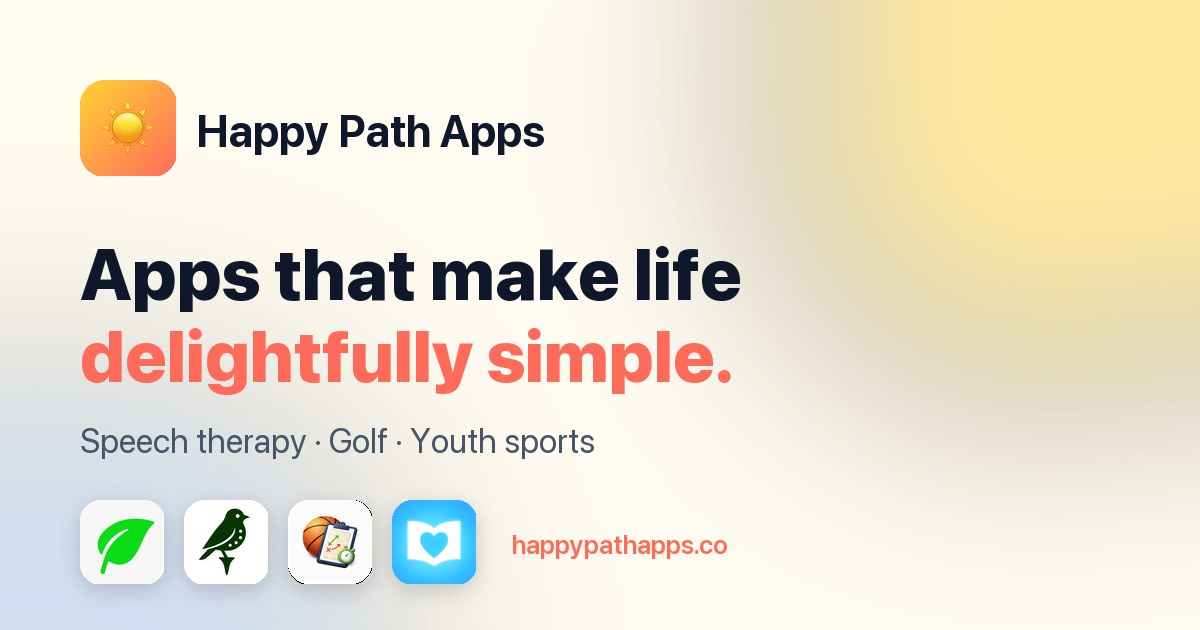
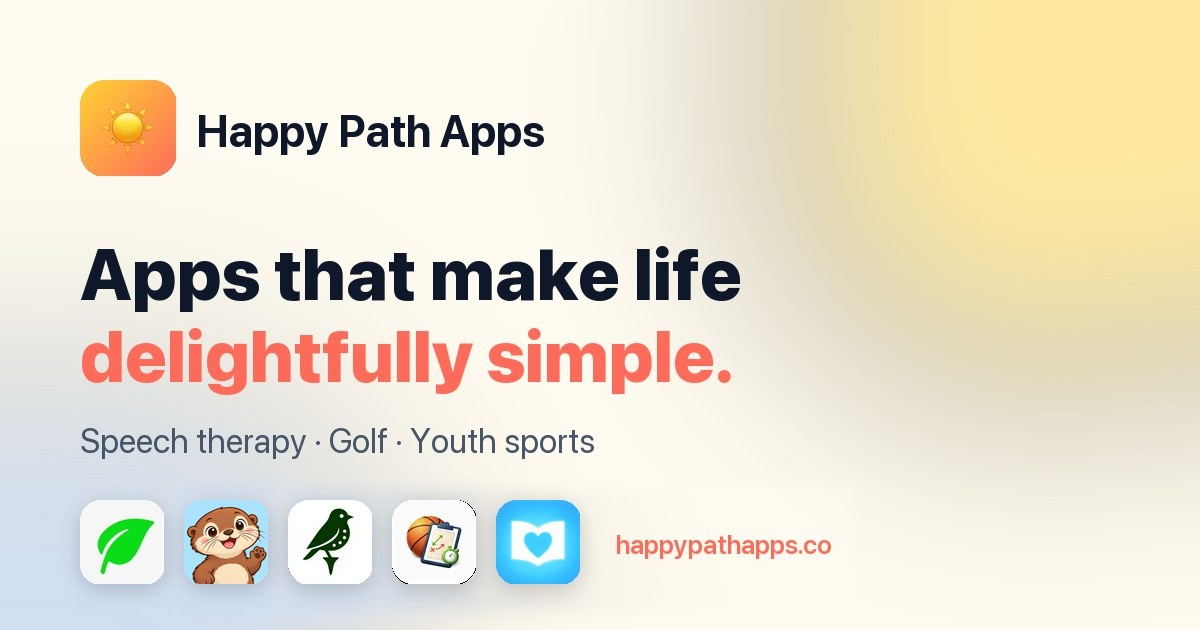
tunes Omilía Kids SEO and cross-links it from Omilía
Shortens the Kids page title and meta description to fit search
results, works "speech therapy practice", vocabulary and toddler /
preschooler phrasing into the copy and FAQ, adds a Meet Omilía Kids
card to the Omilía page, and adds the Kids icon to the home page's
share image.

Changed region(s): [[0.1542, 0.7841, 0.7092, 0.9651]]

diff --git a/omilia-kids/index.html b/omilia-kids/index.html
@@ -3,27 +3,27 @@
 <head>
 <meta charset="UTF-8">
 <meta name="viewport" content="width=device-width, initial-scale=1.0">
-<title>Omilía Kids - Speech &amp; Language Games for Kids 3+ | Happy Path Apps</title>
-<meta name="description" content="Omilía Kids turns speech and language practice into short, cheerful games for children ages 3 and up. Meet Omi the otter, collect stickers, and play with no ads, timers or pressure.">
+<title>Omilía Kids: Speech Games for Kids 3+ | Happy Path Apps</title>
+<meta name="description" content="Fun speech and language games for kids 3 and up. Practice talking, listening and new words with Omi the otter. No ads, no timers, no pressure.">
 <link rel="canonical" href="https://happypathapps.co/omilia-kids/">
 <meta property="og:type" content="website">
 <meta property="og:site_name" content="Happy Path Apps">
-<meta property="og:title" content="Omilía Kids - Speech &amp; Language Games for Kids 3+">
+<meta property="og:title" content="Omilía Kids: Speech Games for Kids 3+">
 <meta property="og:description" content="Short, cheerful speech and language games for ages 3 and up. Meet Omi the otter, collect stickers, and play with no ads, timers or pressure.">
 <meta property="og:url" content="https://happypathapps.co/omilia-kids/">
 <meta property="og:image" content="https://happypathapps.co/omilia-kids/images/og.jpg">
 <meta property="og:image:width" content="1200">
 <meta property="og:image:height" content="630">
 <meta name="twitter:card" content="summary_large_image">
-<meta name="twitter:title" content="Omilía Kids - Speech &amp; Language Games for Kids 3+">
+<meta name="twitter:title" content="Omilía Kids: Speech Games for Kids 3+">
 <meta name="twitter:description" content="Short, cheerful speech and language games for ages 3 and up. Meet Omi the otter, collect stickers, and play with no ads, timers or pressure.">
 <meta name="twitter:image" content="https://happypathapps.co/omilia-kids/images/og.jpg">
-<script type="application/ld+json">{"@context": "https://schema.org", "@type": "MobileApplication", "name": "Omilía Kids: Speech Games", "operatingSystem": "iOS", "applicationCategory": "EducationalApplication", "url": "https://happypathapps.co/omilia-kids/", "image": "https://happypathapps.co/omilia-kids/images/omilia-kids-icon.png", "description": "Short, cheerful speech and language games for children ages 3 and up.", "publisher": {"@type": "Organization", "name": "Happy Path Apps", "url": "https://happypathapps.co/"}}</script>
+<script type="application/ld+json">{"@context": "https://schema.org", "@type": "MobileApplication", "name": "Omilía Kids: Speech Games", "operatingSystem": "iOS", "applicationCategory": "EducationalApplication", "url": "https://happypathapps.co/omilia-kids/", "image": "https://happypathapps.co/omilia-kids/images/omilia-kids-icon.png", "description": "Speech and language games for kids ages 3 and up, with Omi the otter. A fun way to practice talking, listening, words and letters at home or between speech therapy sessions.", "publisher": {"@type": "Organization", "name": "Happy Path Apps", "url": "https://happypathapps.co/"}}</script>
 <script type="application/ld+json">{"@context": "https://schema.org", "@type": "FAQPage", "mainEntity": [
-  {"@type": "Question", "name": "What ages is Omilía Kids for?", "acceptedAnswer": {"@type": "Answer", "text": "Omilía Kids is made for children ages 3 and up. The youngest games are built for 3 to 5 year olds, and the app picks games based on your child's age and what you'd like to work on."}},
+  {"@type": "Question", "name": "What ages is Omilía Kids for?", "acceptedAnswer": {"@type": "Answer", "text": "Omilía Kids is made for children ages 3 and up, from toddlers and preschoolers to kindergartners and beyond. The youngest games are built for 3 to 5 year olds, and the app picks games based on your child's age and what you'd like to work on."}},
   {"@type": "Question", "name": "Does my child need to be able to read?", "acceptedAnswer": {"@type": "Answer", "text": "No. Round prompts are read aloud, so children who can't read yet can play on their own."}},
   {"@type": "Question", "name": "Are there ads in Omilía Kids?", "acceptedAnswer": {"@type": "Answer", "text": "No, never. There are no ads, no third-party analytics and no tracking. Your child's name stays on your device, and we don't sell or share your child's information."}},
-  {"@type": "Question", "name": "Is Omilía Kids speech therapy?", "acceptedAnswer": {"@type": "Answer", "text": "Omilía Kids is a practice tool. It isn't a substitute for an assessment or therapy with a licensed speech-language pathologist, but it's a fun way to keep practicing between sessions or at home."}},
+  {"@type": "Question", "name": "Is Omilía Kids speech therapy?", "acceptedAnswer": {"@type": "Answer", "text": "Omilía Kids is a practice tool. It isn't a substitute for an assessment or therapy with a licensed speech-language pathologist, but it's a fun way to keep up speech therapy practice at home or between sessions with your child's SLP."}},
   {"@type": "Question", "name": "How much does Omilía Kids cost?", "acceptedAnswer": {"@type": "Answer", "text": "Omilía Kids starts with a free 7-day trial, then a monthly or yearly subscription. You can cancel any time in your Apple ID settings."}},
   {"@type": "Question", "name": "Does Omilía Kids work on iPad?", "acceptedAnswer": {"@type": "Answer", "text": "Yes. Omilía Kids works on both iPhone and iPad."}}
 ]}</script>
@@ -715,7 +715,7 @@
     <div class="center fade-up">
       <span class="eyebrow">&#11088; How it plays</span>
       <h2 class="title">A few minutes a day. Lots of little wins.</h2>
-      <p class="sub">Every day there&rsquo;s a fresh plan of games picked for your child&rsquo;s age and goals. Short rounds keep it fun, and there are no timers or scores to worry about.</p>
+      <p class="sub">Every day there&rsquo;s a fresh plan of games picked for your child&rsquo;s age and goals. Short rounds keep it fun, and there are no timers or scores to worry about &mdash; whether it&rsquo;s everyday play or speech therapy practice at home.</p>
     </div>
     <div class="how-steps">
       <div class="how-step fade-up">
@@ -749,7 +749,7 @@
     <div class="center fade-up">
       <span class="eyebrow">&#127922; Nine games</span>
       <h2 class="title">Talking, listening, words and more.</h2>
-      <p class="sub">Each game works on a different early language skill, from naming pictures to following directions.</p>
+      <p class="sub">Each speech game works on a different early language skill, from naming pictures and building vocabulary to following directions.</p>
     </div>
     <div class="games-grid">
       <div class="game fade-up" style="--c: #3D8DF4;"><div class="game-icon"><i style="--g: url('/omilia/images/games/choose.png');"></i></div><div><h3>Choose</h3><p>Find the picture that matches the word.</p></div></div>
@@ -898,7 +898,7 @@
     <div class="faq-list fade-up">
       <details>
         <summary>What ages is Omilía Kids for?</summary>
-        <p>Children ages 3 and up. The youngest games are built for 3 to 5 year olds, and the app picks games based on your child&rsquo;s age and what you&rsquo;d like to work on.</p>
+        <p>Children ages 3 and up, from toddlers and preschoolers to kindergartners and beyond. The youngest games are built for 3 to 5 year olds, and the app picks games based on your child&rsquo;s age and what you&rsquo;d like to work on.</p>
       </details>
       <details>
         <summary>Does my child need to be able to read?</summary>
@@ -910,7 +910,7 @@
       </details>
       <details>
         <summary>Is Omilía Kids speech therapy?</summary>
-        <p>Omilía Kids is a practice tool. It isn&rsquo;t a substitute for an assessment or therapy with a licensed speech-language pathologist, but it&rsquo;s a fun way to keep practicing at home or between sessions.</p>
+        <p>Omilía Kids is a practice tool. It isn&rsquo;t a substitute for an assessment or therapy with a licensed speech-language pathologist, but it&rsquo;s a fun way to keep up speech therapy practice at home or between sessions with your child&rsquo;s SLP.</p>
       </details>
       <details>
         <summary>How much does it cost?</summary>

diff --git a/omilia/index.html b/omilia/index.html
@@ -500,6 +500,27 @@
   .om-plan-card .om-hero-cta { margin-top: 26px; }
 
   /* Guides */
+  /* Omilía Kids promo */
+  .om-kids { padding: 0 32px 90px; background: var(--blue-50); }
+  .om-kids-card {
+    max-width: 1000px; margin: 0 auto; position: relative; overflow: hidden;
+    display: grid; grid-template-columns: 150px 1fr auto; gap: 28px; align-items: center;
+    padding: 28px 36px; border-radius: 24px; text-decoration: none; color: inherit;
+    background: linear-gradient(135deg, #CDEBFF 0%, #E9F8DD 100%);
+    transition: transform 0.25s, box-shadow 0.25s;
+  }
+  .om-kids-card:hover { transform: translateY(-3px); box-shadow: 0 14px 34px rgba(24,40,83,0.12); }
+  .om-kids-card img { width: 150px; height: auto; display: block; }
+  .om-kids-card .tag { font-size: 0.78rem; font-weight: 700; letter-spacing: 1px; text-transform: uppercase; color: #3E8A26; }
+  .om-kids-card h2 { font-size: 1.6rem; color: var(--navy); margin-top: 4px; }
+  .om-kids-card p { color: #4A5568; margin-top: 6px; line-height: 1.55; }
+  .om-kids-card .go { font-weight: 700; color: var(--navy); background: #FFD233; padding: 12px 22px; border-radius: 50px; white-space: nowrap; }
+  @media (max-width: 760px) {
+    .om-kids { padding: 0 16px 64px; }
+    .om-kids-card { grid-template-columns: 1fr; text-align: center; gap: 12px; padding: 26px 22px; }
+    .om-kids-card img { width: 120px; margin: 0 auto; }
+    .om-kids-card .go { justify-self: center; }
+  }
   .om-guides { padding: 90px 32px; background: var(--blue-50); }
   .om-guides-inner { max-width: 1000px; margin: 0 auto; }
   .om-guide-card {
@@ -940,6 +961,19 @@
       <span class="go">Read the guide &rarr;</span>
     </a>
   </div>
+</section>
+
+<!-- Omilía Kids -->
+<section class="om-kids">
+  <a class="om-kids-card fade-up" href="/omilia-kids/">
+    <img src="/omilia-kids/images/omi/omi_wave.webp" width="520" height="514" loading="lazy" alt="Omi the otter waving">
+    <div>
+      <span class="tag">New &middot; For ages 3+</span>
+      <h2>Have a little one? Meet Omil&iacute;a Kids.</h2>
+      <p>Speech and language games for kids, with Omi the otter cheering every try. Stickers to collect, no ads and no pressure.</p>
+    </div>
+    <span class="go">Meet Omi &rarr;</span>
+  </a>
 </section>
 
 <!-- Reviews + what's included -->
